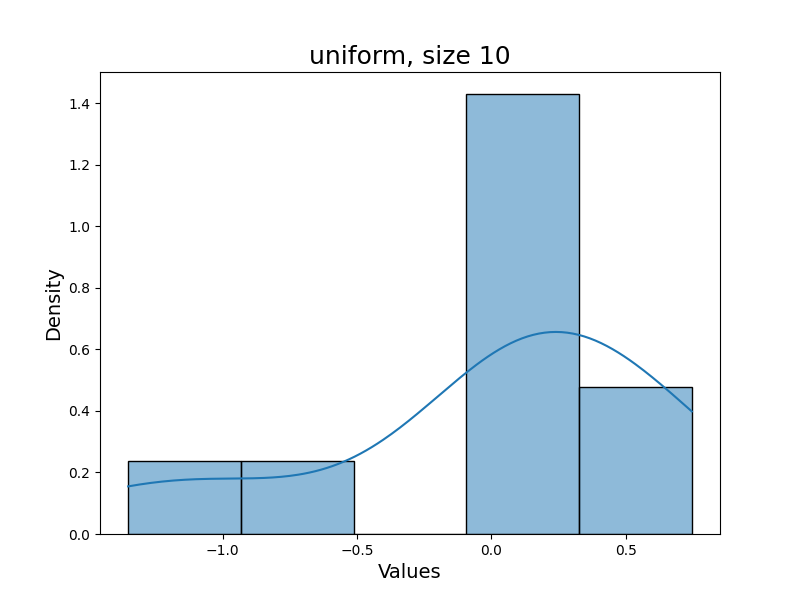
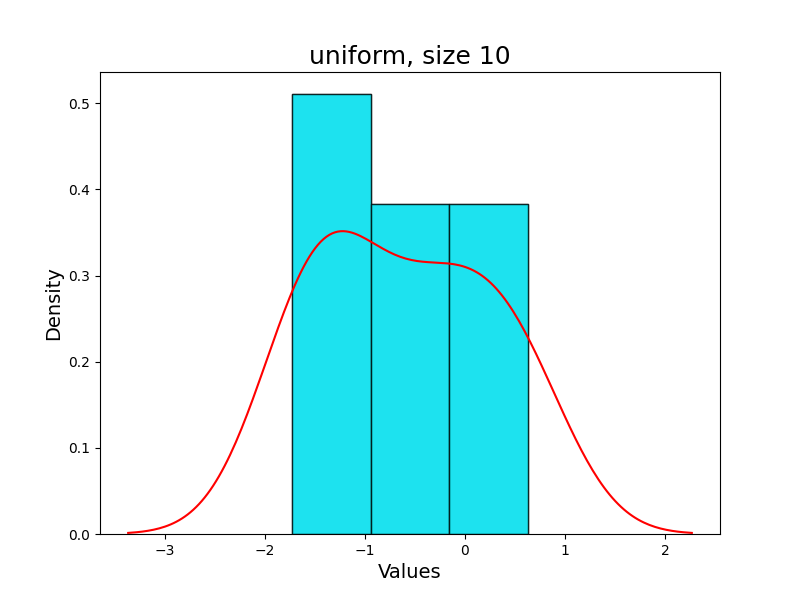
first lab remade

diff --git a/lab_1/main.py b/lab_1/main.py
@@ -2,64 +2,40 @@ import matplotlib.pyplot as plt
 import seaborn as sns
 import numpy as np
 import math
-from scipy.stats import cauchy
 np.random.seed(42)
 
-normal = np.random.normal(0, 1, 1000)
-cauchy = np.random.standard_cauchy(1000)
-student = np.random.standard_t(df=3, size=1000)
-puasson = np.random.poisson(10, size=1000)
-uniform = np.random.uniform(-(math.sqrt(3)), math.sqrt(3), 1000)
+normal = np.random.standard_normal(900)
+cauchy = np.random.standard_cauchy(201)
+student = np.random.standard_t(df=3, size=1001)
+poisson = np.random.poisson(10, size=1001)
+uniform = np.random.uniform(-(math.sqrt(3)), math.sqrt(3), 1001)
 
-array_of_distributions = [normal, cauchy, student, puasson, uniform]
-names = ["normal", "cauchy", "student", "puasson", "uniform"]
 array_of_powers = [10, 50, 1000]
-array_of_intervals = [7, 10, 20]
 
-#normal
-for power, interval in zip(array_of_powers, [7, 10, 20]):
-    plt.figure(figsize=(8, 6))
-    sns.histplot(normal[:power], bins=interval, kde=True, stat="density")
-    plt.title(f'{'normal'}, size {power}', fontsize=18)
-    plt.xlabel('Values', fontsize=14)
-    plt.ylabel('Density', fontsize=14)
-    plt.savefig(f'{'normal'}, size {power}')
+array_of_intervals_normal = [7, 20, 30]
+array_of_intervals_cauchy = [5, 12, 30]
+array_of_intervals_student = [7, 20, 30]
+array_of_intervals_poisson = [3, 10, 30]
+array_of_intervals_uniform = [3, 10, 30]
 
-#cauchy
-for power, interval in zip(array_of_powers, [5, 7, 300]):
-    filtered_data = cauchy[(cauchy >= -50) & (cauchy <= 50)]
-    plt.figure(figsize=(8, 6))
-    sns.histplot(filtered_data[:power], bins=interval, kde=True, stat="density")
-    plt.title(f'{'cauchy'}, size {power}', fontsize=18)
-    plt.xlabel('Values', fontsize=14)
-    plt.ylabel('Density', fontsize=14)
-    plt.savefig(f'{'cauchy'}, size {power}')
+arr_intervals = [array_of_intervals_normal, array_of_intervals_cauchy, array_of_intervals_student, array_of_intervals_poisson, array_of_intervals_uniform]
+array_of_distributions = [normal, cauchy, student, poisson, uniform]
+names = ["normal", "cauchy", "student", "puasson", "uniform"]
 
-#puasson
-for power, interval in zip(array_of_powers, [5, 10, 19]):
-    plt.figure(figsize=(8, 6))
-    sns.histplot(puasson[:power], bins=interval, kde=True, stat="density")
-    plt.title(f'{'puasson'}, size {power}', fontsize=18)
-    plt.xlabel('Values', fontsize=14)
-    plt.ylabel('Density', fontsize=14)
-    plt.savefig(f'{'puasson'}, size {power}')
-
-
-#student
-for power, interval in zip(array_of_powers, [5, 20, 30]):
-    plt.figure(figsize=(8, 6))
-    sns.histplot(student[:power], bins=interval, kde=True, stat="density")
-    plt.title(f'{'student'}, size {power}', fontsize=18)
-    plt.xlabel('Values', fontsize=14)
-    plt.ylabel('Density', fontsize=14)
-    plt.savefig(f'{'student'}, size {power}')
-
-
-#uniform
-for power, interval in zip(array_of_powers, [5, 20, 30]):
-    plt.figure(figsize=(8, 6))
-    sns.histplot(uniform[:power], bins=interval, kde=True, stat="density")
-    plt.title(f'{'uniform'}, size {power}', fontsize=18)
-    plt.xlabel('Values', fontsize=14)
-    plt.ylabel('Density', fontsize=14)
-    plt.savefig(f'{'uniform'}, size {power}')
+for distribution, name, intervals in zip(array_of_distributions, names, arr_intervals):
+    for power, interval in zip(array_of_powers, intervals):
+        # Создаем гистограмму с заполненными столбцами
+        plt.figure(figsize=(8, 6))
+        bin_values, bin_edges, _ = plt.hist(distribution[:power], bins=interval, density=True, alpha=0.7, edgecolor='black')
+        # Замена пустых столбцов на столбцы с высотой 1
+        for i in range(len(bin_values)):
+            if bin_values[i] == 0:
+                bin_values[i] = (bin_values[i - 1] + bin_values[i + 1]) / 2
+        # Рисуем заполненные столбцы
+        plt.bar(bin_edges[:-1], bin_values, width=np.diff(bin_edges), align='edge', alpha=0.7, edgecolor='black', color='cyan')
+        # Добавляем график аппроксимации
+        sns.kdeplot(distribution[:power], color='red')
+        plt.title(f'{name}, size {power}', fontsize=18)
+        plt.xlabel('Values', fontsize=14)
+        plt.ylabel('Density', fontsize=14)
+        plt.savefig(f'{name}, size {power}')
